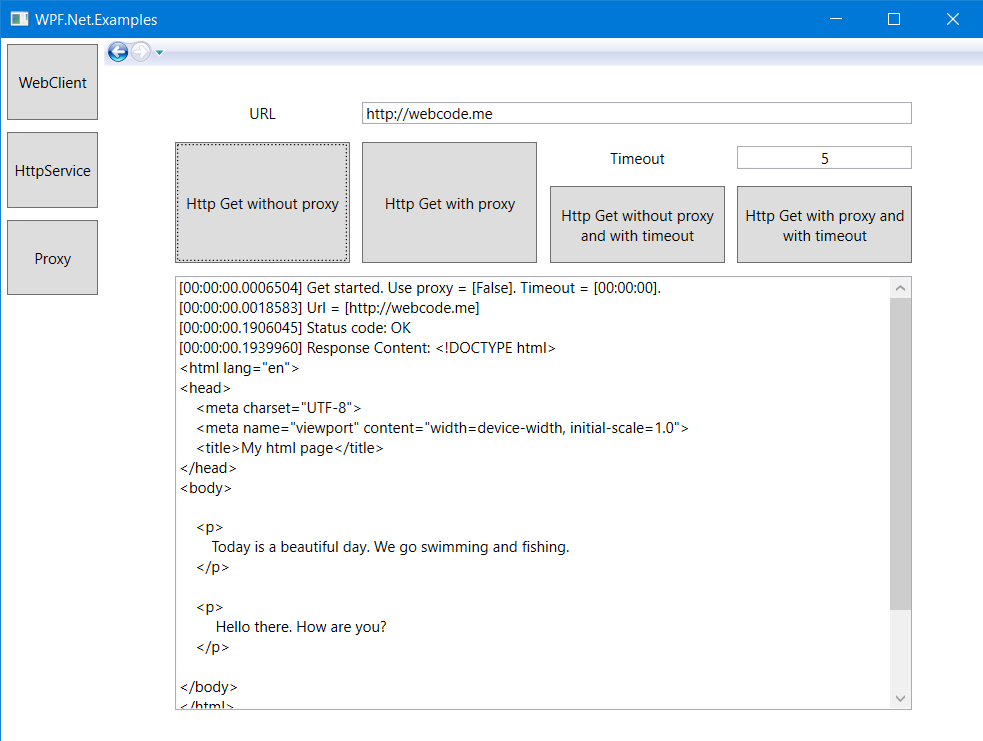
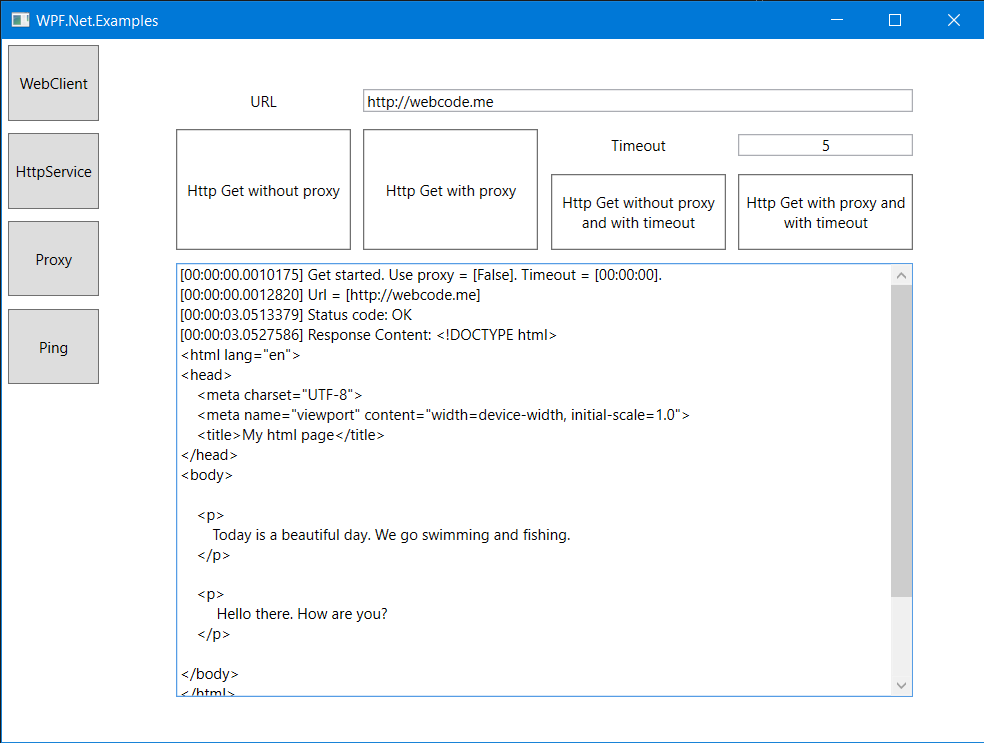
Added assets

diff --git a/README.md b/README.md
@@ -2,7 +2,7 @@
 
 ## WPF.Net.Examples
 
-### For the success compile use the repository "WPF.Utils"
-
 ![](Assets/WPF.Net.Examples.WebClient.png?raw=true)
 ![](Assets/WPF.Net.Examples.HttpService.png?raw=true)
+![](Assets/WPF.Net.Examples.Proxy.png?raw=true)
+![](Assets/WPF.Net.Examples.Ping.png?raw=true)
